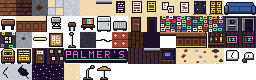
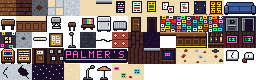
Art: City Sound walls read as walls - plaster with sticker clusters on the door frames, not confetti
The hallway and Room 4 were tiled wall-to-wall with the four sticker_wall tiles, which read
as full-screen confetti and swallowed the NPCs. Both maps keep every entity, door, exit and
trigger where it was; only wall glyphs changed. Hallway: wall_plaster under a wall_plaster_top
cornice, the dark sticker tiles hugging each soundproof door (Room 4 heaviest), two posters,
and two new plaster-based sticker_wall_sparse_a/b tiles for the stragglers (32% of wall tiles
carry stickers, 18% dense). The vending and corkboard tiles moved to a deco layer so they sit
on plaster instead of black. Room 4: the top row stays a sticker band, with a two-tile drip,
a cluster around the door and a few sparse tiles below. DESIGN.md describes the new walls.

Claude-Session: https://claude.ai/code/session_0153XasNb8cNzhEiZQ1kUXRx

Changed region(s): [[0.4375, 0.8, 0.5625, 1.0]]

diff --git a/docs/DESIGN.md b/docs/DESIGN.md
@@ -118,13 +118,13 @@ Skyline silhouettes along rows 6–13; PRODUCTIVITY IS FREEDOM billboard object 
 Open garage door (7..8,13) onto snow and pines; the kit (32×32 object) at (7,6); Ryan on the throne (8,7); a wall landline (3,4); a space heater (13,5) that does nothing. Used twice: the wave (CS-05) and the call (CS-08). No player; camera centered on the kit.
 
 ### `city_sound_hall` — 28×12
-**Layout.** A two-tile corridor (rows 6–7) from the stairs (2,6) east to a dead end at x 27; Rooms 1–6 along the north wall (doors at x 8, 12, 16, 20, 24, 26; Room 4 at (20,5)); night-manager desk (5,4); vending (8,4); bulletin board (12,4); bathroom door (26,5). Every wall tile is a sticker tile (four variants). Bajonka outside Room 4 at (20,7) — the canonical clipboard pose, `type: save`, `condition: flags.hasBajonka`. **Spawn** (2,7) facing right.
+**Layout.** A two-tile corridor (rows 6–7) from the stairs (2,6) east to a dead end at x 27; Rooms 1–6 along the north wall (doors at x 8, 12, 16, 20, 24, 26; Room 4 at (20,5)); night-manager desk (5,4); vending (8,4); bulletin board (12,4); bathroom door (26,5). Plaster walls under a gray cornice (`wall_plaster_top` row 3); the four dark `sticker_wall_a..d` tiles cluster on the door frames (flanks and the tile above each soundproof door, Room 4 heaviest), `sticker_wall_sparse_a/b` stragglers sit between them and along the south wall, two show posters hang above Rooms 2 and 6 — about a third of the wall tiles carry stickers, so the NPCs read against the wall. Bajonka outside Room 4 at (20,7) — the canonical clipboard pose, `type: save`, `condition: flags.hasBajonka`. **Spawn** (2,7) facing right.
 **NPCs.** Night Manager (5,5): "Room 4. Cash only. Don't put stickers on the stickers." Ska Band ×3 loading out at (10..12,7): "Ska's coming back." / "It never came." / "Checkmate." Noise Guy in Room 2's doorway (12,6): "I'm the only member. I'm also the audience. Reviews are mixed."
 **Interactables.** Board: "BASSIST WANTED (NOT YOU, GREG)." / "DRUMMER AVAILABLE: 13/8 ONLY." / "LOST: CLIPBOARD. IF FOUND, YOU HAVE ALREADY SIGNED." Vending: "Everything is $1.25. Everything is sold out." Other doors: one muffled line each ("Room 1 is practicing one chord. It is getting better.").
 **Triggers.** Room 3 proximity (16..18,6..7) `once` → CS-09. Room 4 door exit `condition: flags.ryanArrived`. **Enemies:** none.
 
 ### `room4` — 14×12
-**Layout.** Door (3,10). Kit NE (10..12,2..4) as a 32×32 object plus a cymbal tile. Lucky's stickered amp (2,5); Phoenix's amp (2,7); mic stand (7,6); the Puddle Couch (11..13,9); mini-fridge (13,6); a wall of band tallies north. Conditional dressing: Brian's pedalboard (6,8) and iced coffee (8,8) while `monthLater && !brianQuit` (both only exist inside CS-13/CS-14, and the pedalboard leaves with Brian as the `fried_pedalboard` item); the contract on the snare during CS-12; a ceiling-drip object (11,1) after `auditionDone` (the freeze gag; the RAT FIGHT poster keeps (10,1)). **Spawn** (4,9) facing right.
+**Layout.** Door (3,10). Kit NE (10..12,2..4) as a 32×32 object plus a cymbal tile. Lucky's stickered amp (2,5); Phoenix's amp (2,7); mic stand (7,6); the Puddle Couch (11..13,9); mini-fridge (13,6); a wall of band tallies north. Walls: the sticker band is the top row only; below it plaster with a two-tile sticker drip hanging off the band, the tallies and posters, a dark sticker cluster around the door and a few sparse stragglers. Conditional dressing: Brian's pedalboard (6,8) and iced coffee (8,8) while `monthLater && !brianQuit` (both only exist inside CS-13/CS-14, and the pedalboard leaves with Brian as the `fried_pedalboard` item); the contract on the snare during CS-12; a ceiling-drip object (11,1) after `auditionDone` (the freeze gag; the RAT FIGHT poster keeps (10,1)). **Spawn** (4,9) facing right.
 **Interactables.** Lucky's amp: "Forty-one stickers. Nine are political. Brian counted." Kit: "The size of a sedan. The ride cymbal is tinny. Don't tell him." Fridge: "Nobody has ever opened it." Tallies: "RAT FIGHT WAS HERE. (They toured?)" / "THE DENIM BOYS: ROOM 4 FOREVER (crossed out: NOW ROOM 2)." Iced coffee: "Boutique. Nine dollars. It has a name. The name is Brian." Pedalboard: "$2,000 of pristine, never-stepped-on tone."
 **Triggers.** `onFirstEnter` → CS-10; `onEnter` with `flags.monthLater && !flags.monthLaterRan` → CS-13. **Enemies:** B-9, B-10, scripted only.
 
@@ -921,7 +921,7 @@ Lucky: `lucky` (neutral), `lucky_grin`, `lucky_rage`, `lucky_deflated`, `lucky_b
 ### Tilesets
 - `vanguard` (shipped; needs 12): hull_floor, hull_floor_stripe, hull_wall, hull_wall_panel, pod_glass, pod_seat, conduit, vent, warning_stripe, window_stars (2-frame), intercom_mount, eject_mount.
 - `minneapolis` (shipped 30; add 10): existing snow/sidewalk/asphalt/curb/brick/window/door/dumpster/trash_bag/pothole/lamp/fence/slush/grate/billboard_a–c/sign_pole, plus `dumpster_down`, `pothole_glow` (2-frame), `snowbank`, `rail_platform`, `rail_edge`, `car_a` ×4 (two parked cars), `coffee_front` ×2, `pawn_front` ×2, `towers_panel` ×4 (the colored Riverside panels), `neon_palmers` ×4 (2-frame), `awning` (over), `bus_shelter` ×2, `bare_tree_trunk`, `bare_tree_top` (over), `skyline_a..d` (rooftops strip), `pine_trunk`, `pine_top` (over), `highway_light`.
-- `interiors` (shipped; needs 42): wood_floor, carpet_stained, tile_floor, wall_plaster, wall_poster ×3, wall_bills ×2, couch ×2, table, counter, espresso_machine, stool, window_night, stage_edge, stage_floor, bar_counter ×2, beer_sign (2-frame), sticker_wall ×4, soundproof_door (2-frame), room_number, hallway_floor, hallway_light, mic_tile, drum_riser, garage_wall, garage_door, garage_floor, snow_deep, lamp, dark, bathroom_door, door_interior.
+- `interiors` (shipped; needs 42): wood_floor, carpet_stained, tile_floor, wall_plaster, wall_poster ×3, wall_bills ×2, couch ×2, table, counter, espresso_machine, stool, window_night, stage_edge, stage_floor, bar_counter ×2, beer_sign (2-frame), sticker_wall ×4 + sticker_wall_sparse ×2 (plaster with 1–2 stickers), soundproof_door (2-frame), room_number, hallway_floor, hallway_light, mic_tile, drum_riser, garage_wall, garage_door, garage_floor, snow_deep, lamp, dark, bathroom_door, door_interior.
 - `palmers` (shipped; needs 22): bar wood, stage, stools, neon, bottles, `rubble` ×4, `sky_hole` ×2 (over, stars), `ceiling_cracked` ×2, `drywall_chunk` ×2, `plaster_floor`, peeled-roof underside ×3.
 - Battle backgrounds are procedural (see UI); the `sky` TileSprite for the freefall is a 64×64 generated texture.
 
